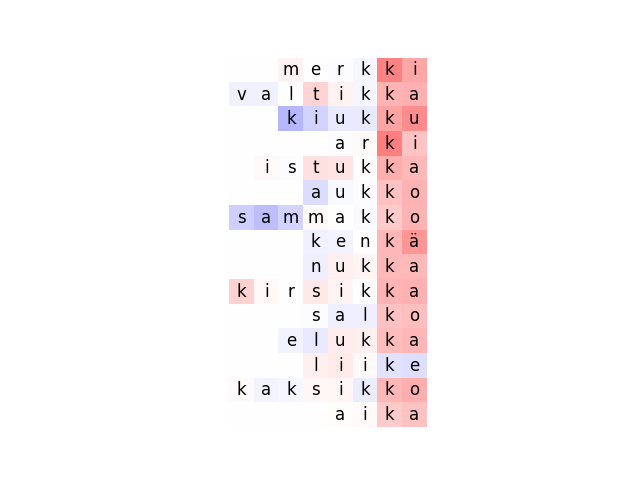
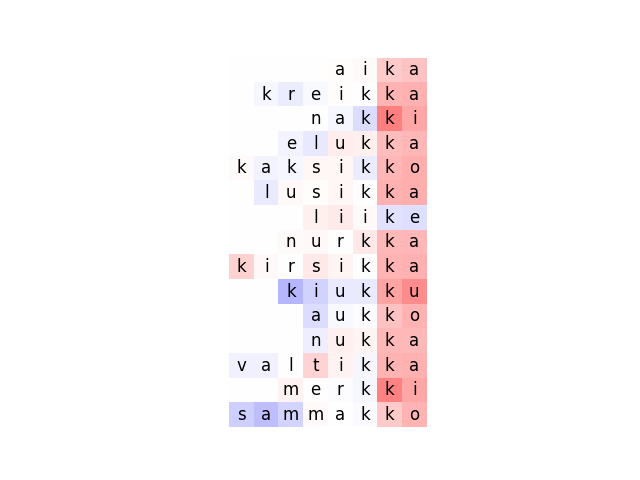
Heatmaps

diff --git a/LSTM_hidden_states/plot_activation_heat_map.py b/LSTM_hidden_states/plot_activation_heat_map.py
@@ -72,7 +72,7 @@ for state in [476,410,256,349,446]:
     plt.savefig("%s_grad.png" % (state))
 
     data_hs = [(d,hs) for d,hs in zip(annotated_data,data_hidden_states)
-               if d[IS_GRADATION] == "yes"]
+               if d[IS_GRADATION] == "no"]
     plt = plot(data_hs)
     plt.savefig("%s_non_grad.png" % (state))
     plt.close()
